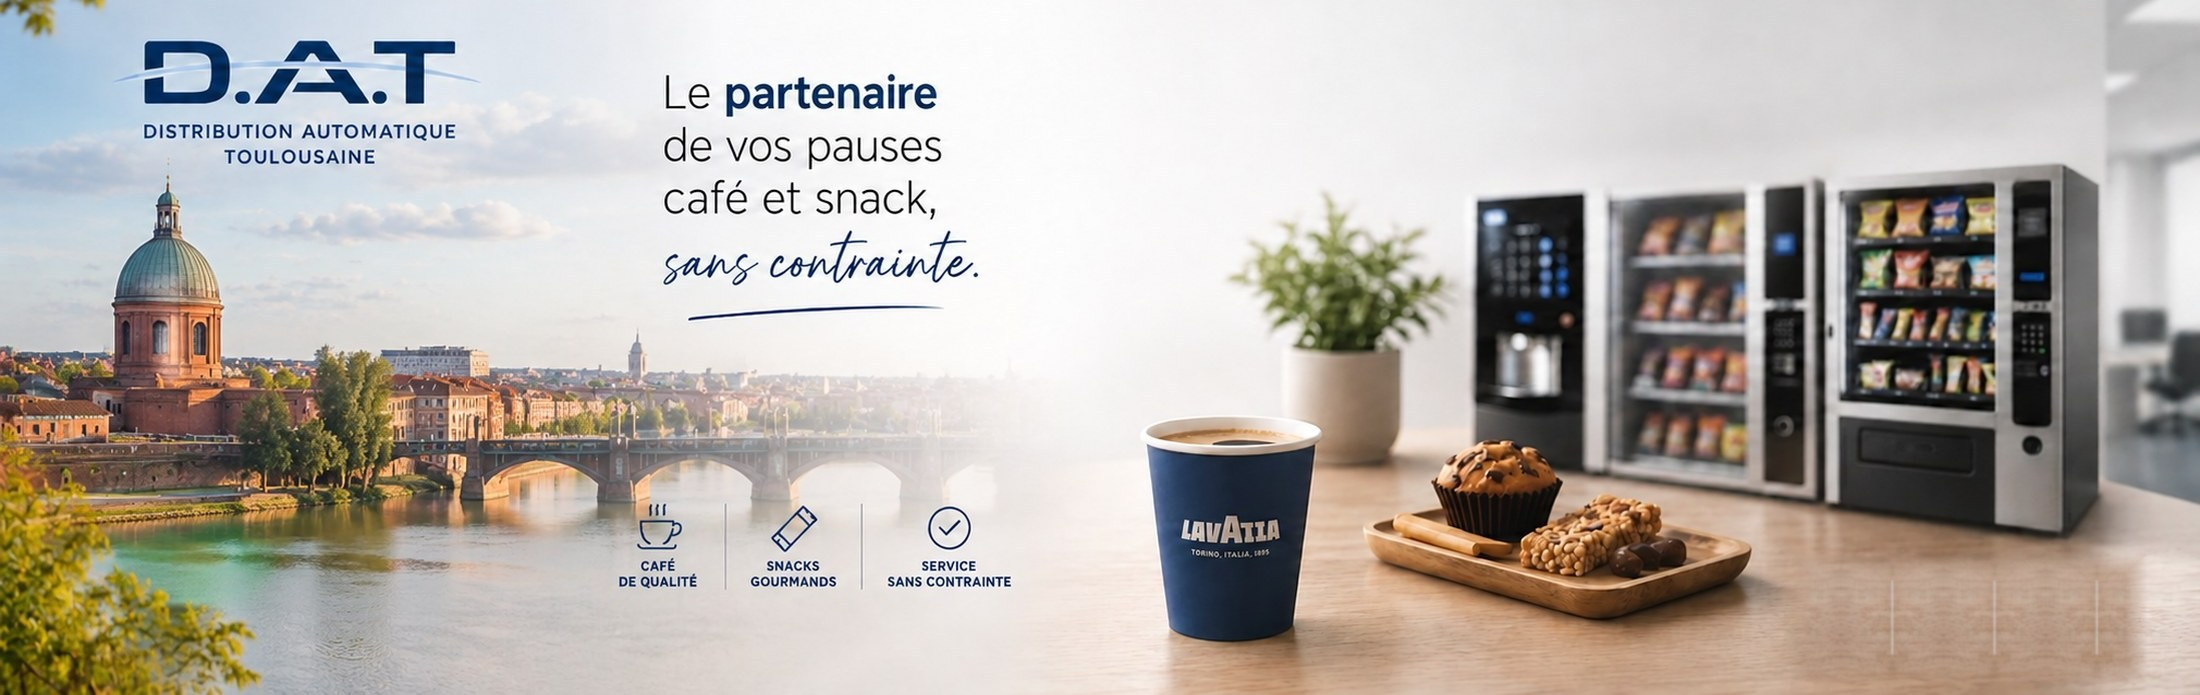
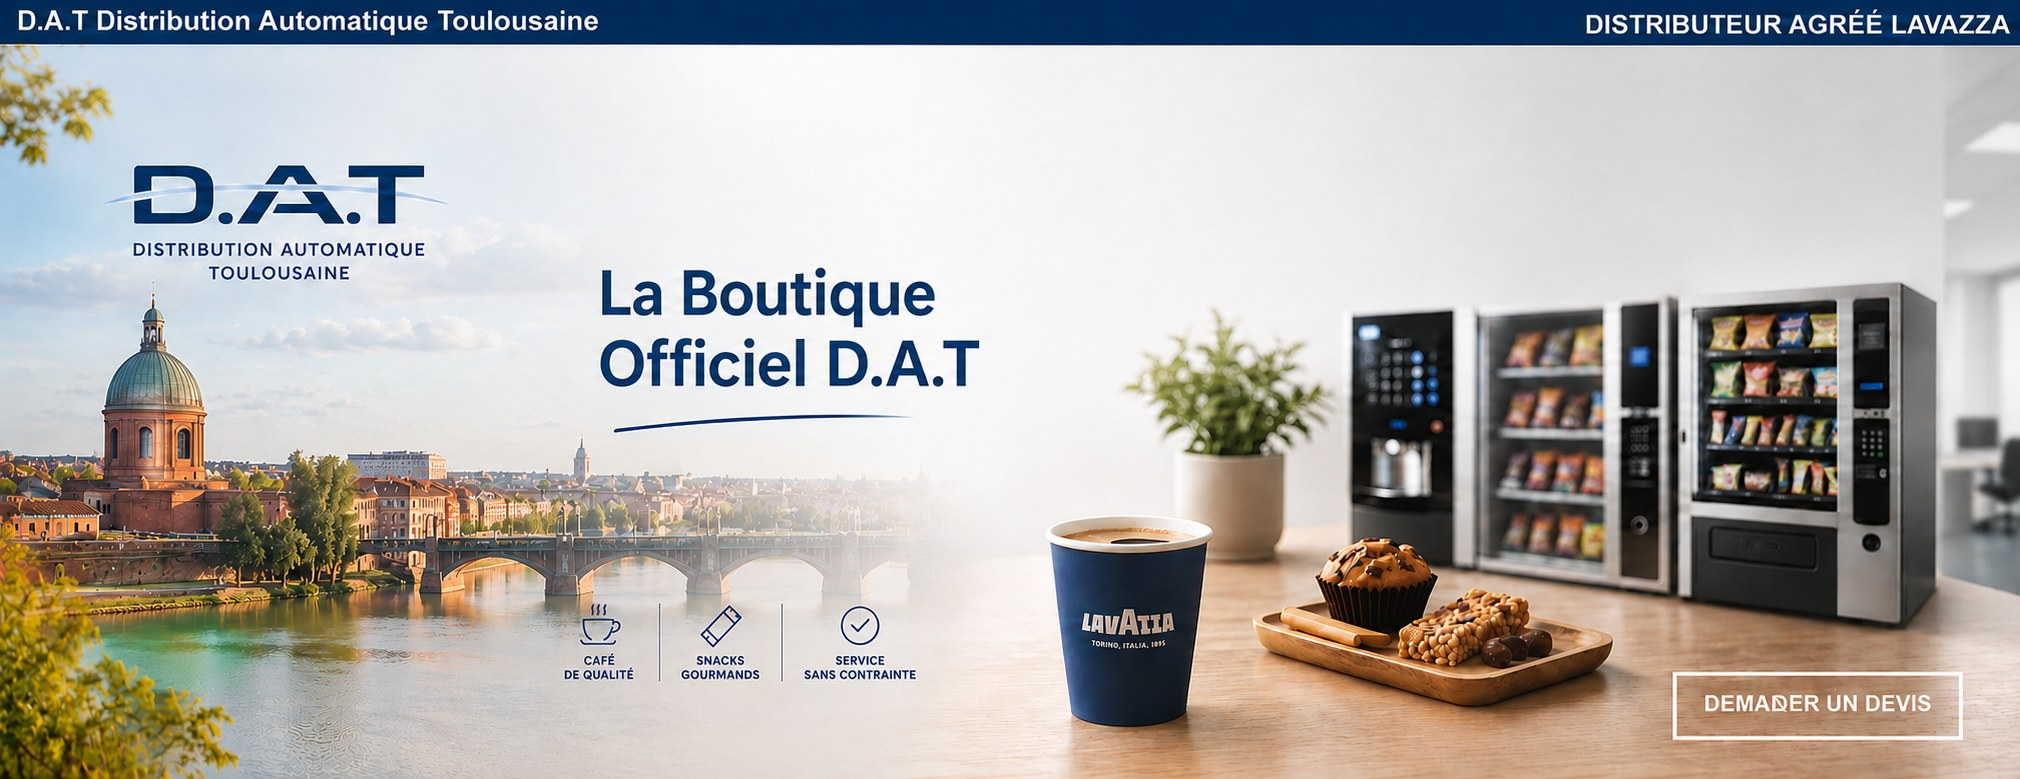
mise à jour navigation

diff --git a/index.html b/index.html
@@ -503,7 +503,7 @@ section{ padding:88px 0; }
 <main>
 
   <div class="home-hero-image">
-    <img src="images/page-garde-hero.jpg" alt="D.A.T. — Le partenaire de vos pauses café et snack, sans contrainte.">
+    <img src="images/page-garde-hero.jpg" alt="D.A.T. — La Boutique Officiel D.A.T.">
   </div>
 
   <section class="home-hero-text">
